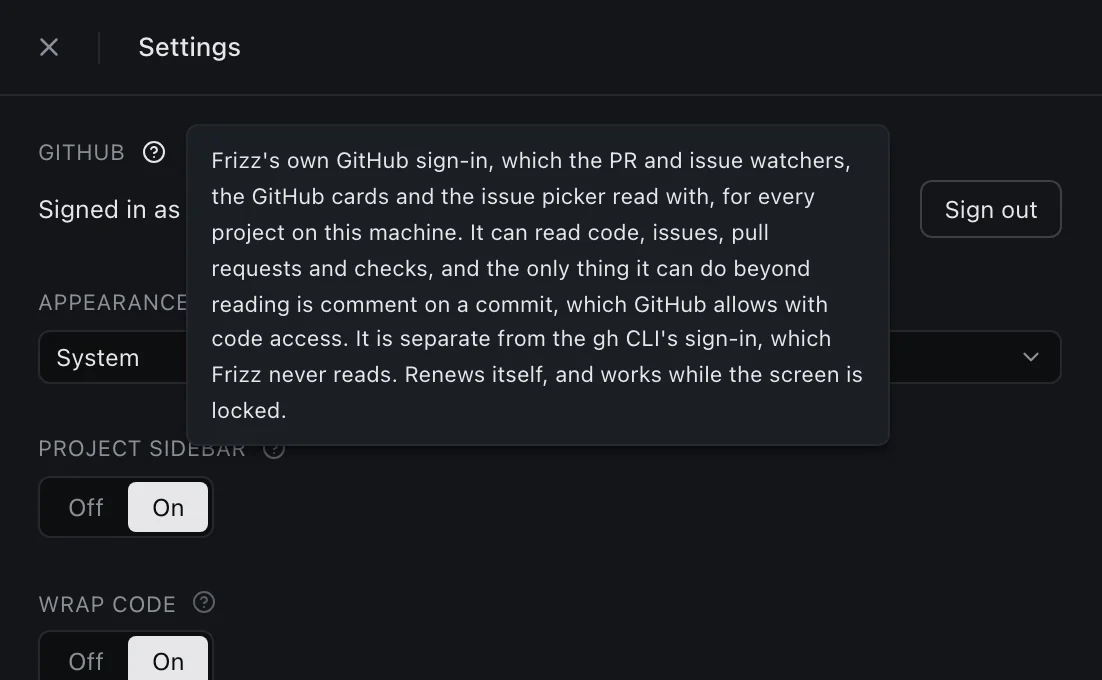
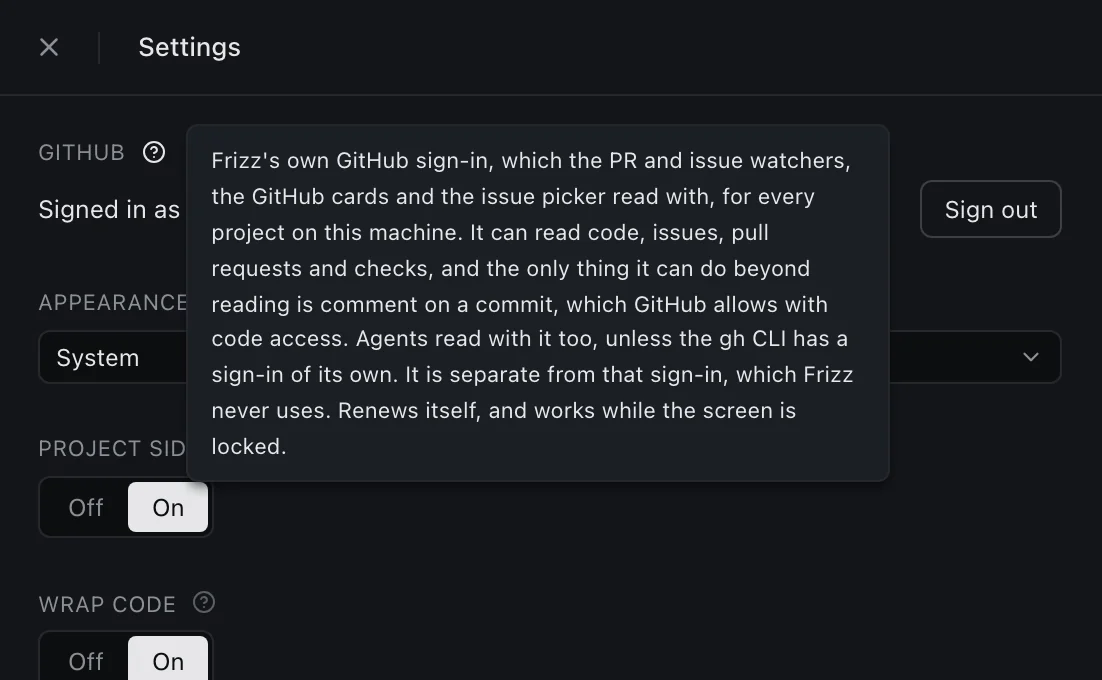
fix(site): reshoot the GitHub rows on the current watcher and help text

Changed region(s): [[0.1851, 0.4632, 0.7713, 0.6176], [0.1543, 0.6485, 0.2777, 0.6794], [0.1543, 0.7103, 0.1851, 0.7412]]

diff --git a/site/index.html b/site/index.html
@@ -168,37 +168,37 @@
             </article>
             <article class="feature row flip">
               <div class="row-text"><h3>Threads from GitHub</h3><p>Browse issues and pull requests from the composer, sorted by recency or reactions. A badge marks issues that already have a PR. Shift-click a range and start one thread for each, with a prompt you can edit.</p></div>
-              <div class="row-shot"><img src="/img/f-github.webp?v=b7817dae" width="1500" height="1117" loading="lazy" decoding="async" alt="The GitHub picker over the dimmed board, listing open issues with three of them checked and badges on the two that already have a pull request." /></div>
+              <div class="row-shot"><img src="/img/f-github.webp?v=cf2d37b6" width="1500" height="1117" loading="lazy" decoding="async" alt="The GitHub picker over the dimmed board, listing open issues with three of them checked and badges on the two that already have a pull request." /></div>
             </article>
             <article class="feature row">
               <div class="row-text"><h3>A pull request&#x27;s whole life</h3><p>A thread can watch a PR and rest, for up to a year. CI results, reviews, comments, label changes, conflicts, and a drop from the merge queue each wake the agent. The watch ends when the PR merges or closes.</p></div>
-              <div class="row-shot thread"><img src="/img/f-pr-life.webp?v=e986c858" width="1500" height="1086" loading="lazy" decoding="async" alt="A thread following one pull request: CI failed, the agent pushed a fix, CI passed, a change request arrived, a conflict appeared, and the pull request merged." /></div>
+              <div class="row-shot thread"><img src="/img/f-pr-life.webp?v=3afb4d08" width="1500" height="1029" loading="lazy" decoding="async" alt="A thread following one pull request: CI failed, the agent pushed a fix, CI passed, a change request arrived, a conflict appeared, and the pull request merged." /></div>
             </article>
             <article class="feature row flip">
               <div class="row-text"><h3>Checks and merge state on the card</h3><p>Each watched PR gets a row with its check counts and whether it can merge. A failed count links to the failing checks on GitHub.</p></div>
-              <div class="row-shot thread"><img src="/img/f-watch.webp?v=d6687d35" width="1500" height="1057" loading="lazy" decoding="async" alt="A thread watching five pull requests, reading 3 running, 15 green, 2 failed, conflicts and blocked." /></div>
+              <div class="row-shot thread"><img src="/img/f-watch.webp?v=c35981dc" width="1500" height="1057" loading="lazy" decoding="async" alt="A thread watching five pull requests, reading 3 running, 15 green, 2 failed, conflicts and blocked." /></div>
             </article>
             <article class="feature row">
               <div class="row-text"><h3>Issue watching</h3><p>A thread can also rest on an issue, waiting for a reporter&#x27;s reply or a maintainer&#x27;s triage. A comment, a label, an assignee, or the close wakes the agent.</p></div>
-              <div class="row-shot thread"><img src="/img/f-issue.webp?v=50ee6879" width="1500" height="1091" loading="lazy" decoding="async" alt="A thread resting on three issues, with each title, its comment count, and one closed." /></div>
+              <div class="row-shot thread"><img src="/img/f-issue.webp?v=21d1a1ce" width="1500" height="1091" loading="lazy" decoding="async" alt="A thread resting on three issues, with each title, its comment count, and one closed." /></div>
             </article>
             <article class="feature row flip">
               <div class="row-text"><h3>Snooze until GitHub has news</h3><p>Snooze a card that is waiting on a PR and it leaves the queue. It comes back when the PR has new activity.</p></div>
-              <div class="row-shot"><img src="/img/f-snooze-pr.webp?v=9a77492c" width="1398" height="638" loading="lazy" decoding="async" alt="A card listing five pull requests, with the pointer on a Snooze button labeled Hides card until new activity is detected." /></div>
+              <div class="row-shot"><img src="/img/f-snooze-pr.webp?v=0aa35399" width="1398" height="638" loading="lazy" decoding="async" alt="A card listing five pull requests, with the pointer on a Snooze button labeled Hides card until new activity is detected." /></div>
             </article>
             <article class="feature row">
               <div class="row-text"><h3>GitHub hovercards</h3><p>Hover an issue, PR, or commit reference anywhere in a thread to see its state, labels, author, diffstat, and an excerpt. Frizz fetches them ahead of time, so the card opens at once.</p></div>
-              <div class="row-shot thread"><img src="/img/f-hovercard.webp?v=7ea9b6f3" width="1500" height="887" loading="lazy" decoding="async" alt="A card open over a pull request link in a transcript, with its title, Open state, lines added and removed, an excerpt, labels and author." /></div>
+              <div class="row-shot thread"><img src="/img/f-hovercard.webp?v=0ea0b4f6" width="1500" height="887" loading="lazy" decoding="async" alt="A card open over a pull request link in a transcript, with its title, Open state, lines added and removed, an excerpt, labels and author." /></div>
             </article>
             <article class="feature row flip">
               <div class="row-text"><h3>Edited files on the thread</h3><p>The rail beside a full-screen thread lists the files it edited, with lines added and removed. Anything git ignores stays out, so build output doesn&#x27;t bury the real changes.</p></div>
-              <div class="row-shot"><img src="/img/f-edited.webp?v=09e70427" width="1500" height="666" loading="lazy" decoding="async" alt="A thread beside a rail of five edited files in a folder tree, each with counts of lines added and removed." /></div>
+              <div class="row-shot"><img src="/img/f-edited.webp?v=8e2c7e8c" width="1500" height="666" loading="lazy" decoding="async" alt="A thread beside a rail of five edited files in a folder tree, each with counts of lines added and removed." /></div>
             </article>
             <article class="feature row">
               <div class="row-text"><h3>Read-only GitHub sign-in</h3><p>Frizz signs in to GitHub with its own app, which can only read. The watchers keep working while your screen is locked, and they can&#x27;t push or merge anything.</p>
                 <p class="fine">The one exception is a comment on a commit, which GitHub allows with code access.</p>
               </div>
-              <div class="row-shot narrow"><img src="/img/f-signed-in.webp?v=b7504663" width="1102" height="680" loading="lazy" decoding="async" alt="Settings with a GitHub field and its help open, saying the sign-in can read code, issues, pull requests and checks, and that the only thing it can do beyond reading is comment on a commit." /></div>
+              <div class="row-shot narrow"><img src="/img/f-signed-in.webp?v=4ca3a17d" width="1102" height="680" loading="lazy" decoding="async" alt="Settings with a GitHub field and its help open, saying the sign-in can read code, issues, pull requests and checks, and that the only thing it can do beyond reading is comment on a commit." /></div>
             </article>
             <article class="feature row flip">
               <div class="row-text"><h3>Monitors that outlive the session</h3><p>An agent can hand Frizz a script and stop. The Frizz server keeps it running while the session sleeps, and each line it prints wakes the agent. It runs unchecked, so it needs a thread in Bypass.</p>
@@ -211,7 +211,7 @@
                   <g class="wake"><path d="M190 74V38M185 44l5-7 5 7"/><path d="M340 74V38M335 44l5-7 5 7"/></g>
                   <circle class="event" cx="190" cy="80" r="6"/><circle class="event" cx="340" cy="80" r="6"/>
                 </svg>
-                <p class="fine">On Claude Code threads that run without permission checks.</p>
+                <p class="fine">On Claude Code threads.</p>
               </div>
               <div class="row-shot thread"><img src="/img/f-monitor.webp?v=4aae4cb8" width="1500" height="1023" loading="lazy" decoding="async" alt="A resting thread: a line in the transcript shows a monitor printed one line, the agent fixed the error, and its card lists the monitor as still running." /></div>
             </article>
